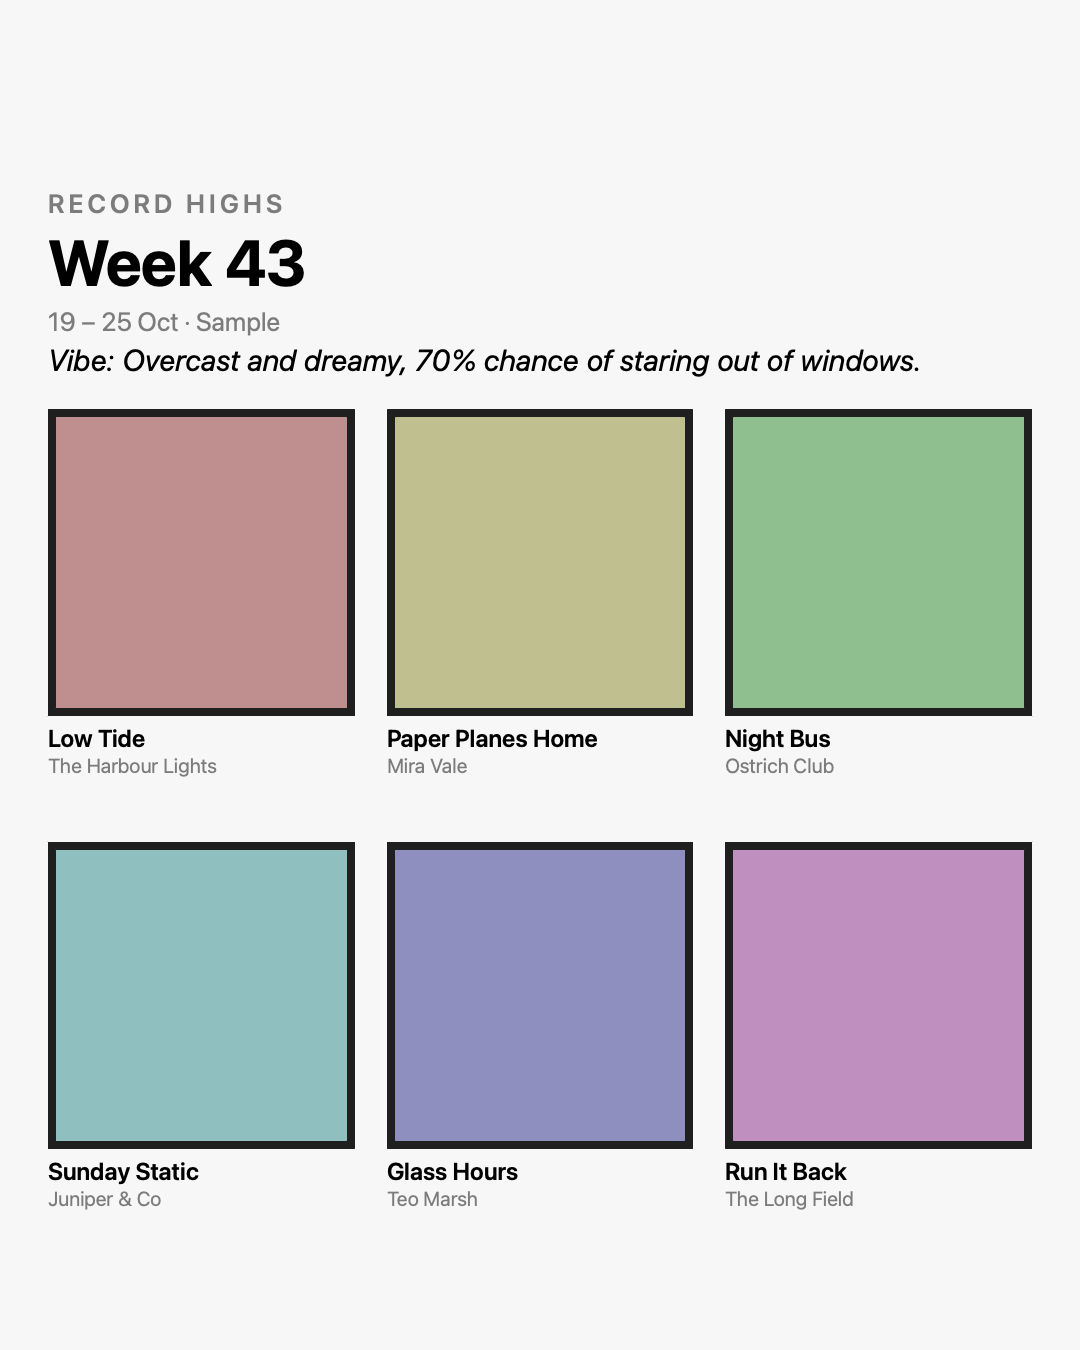
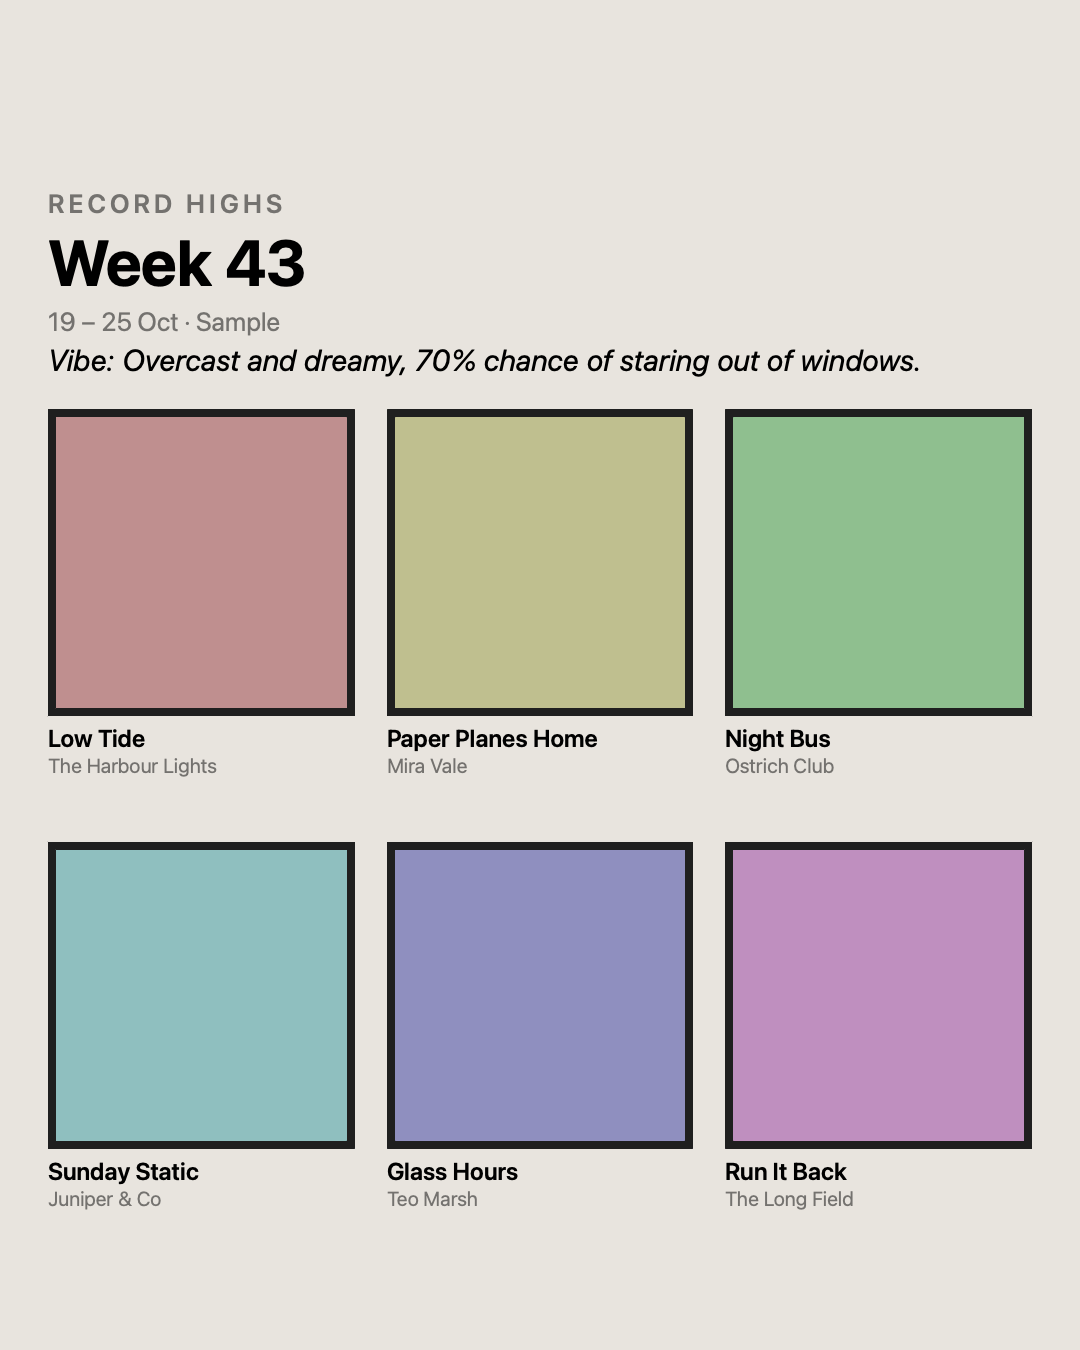
Poster background: stone
Claude-Session: https://claude.ai/code/session_011gvfjq7djBXnGPYnS9kfwg

diff --git a/Sources/RecordCore/Style.swift b/Sources/RecordCore/Style.swift
@@ -3,7 +3,7 @@ public let frameHex = "#1F1F1F"
 public let frameWidth = 8.0   // points
 
 // The poster background: one flat colour, kept simple so the covers stand out.
-public let backgroundHex = "#F7F7F7"
+public let backgroundHex = "#E8E4DE"
 
 // The vibe forecast. Each genre (as iTunes names it) gives a sky, a feel and an activity.
 // The heaviest genre sets the sky and activity, the next sets the feel. Edit freely.

diff --git a/Tests/RecordCoreTests/RecordCoreTests.swift b/Tests/RecordCoreTests/RecordCoreTests.swift
@@ -165,6 +165,7 @@ final class ClearTests: XCTestCase {
 
 final class FrameTests: XCTestCase {
     func testOneFrameForEverySong() { XCTAssertEqual(frameWidth, 8); XCTAssertNotEqual(colour(hex: frameHex), RGB(r: 0.5, g: 0.5, b: 0.5)) }
+    func testBackgroundIsAValidColour() { XCTAssertNotEqual(colour(hex: backgroundHex), RGB(r: 0.5, g: 0.5, b: 0.5)) }
 }
 
 final class ListParseTests: XCTestCase {

diff --git a/README.md b/README.md
@@ -34,7 +34,7 @@ Everything you enter is saved as you go, so quitting loses nothing. **Clear all 
 ## Layout
 
 - `Sources/RecordCore/` - the parts with no UI: vibe forecast, grid layout, post text, alt text
-- `Sources/RecordCore/Style.swift` - frame colour and thickness, and the genre-to-weather table; edit this to change the wording
+- `Sources/RecordCore/Style.swift` - background and frame colours, frame thickness, and the genre-to-weather table; edit this to change the wording
 - `Sources/RecordHighs/` - the app: editor, poster, Apple Music, cover lookup, export
 - `Tests/RecordCoreTests/` - unit tests
 - `scripts/check-promises.sh` - the promise checks
